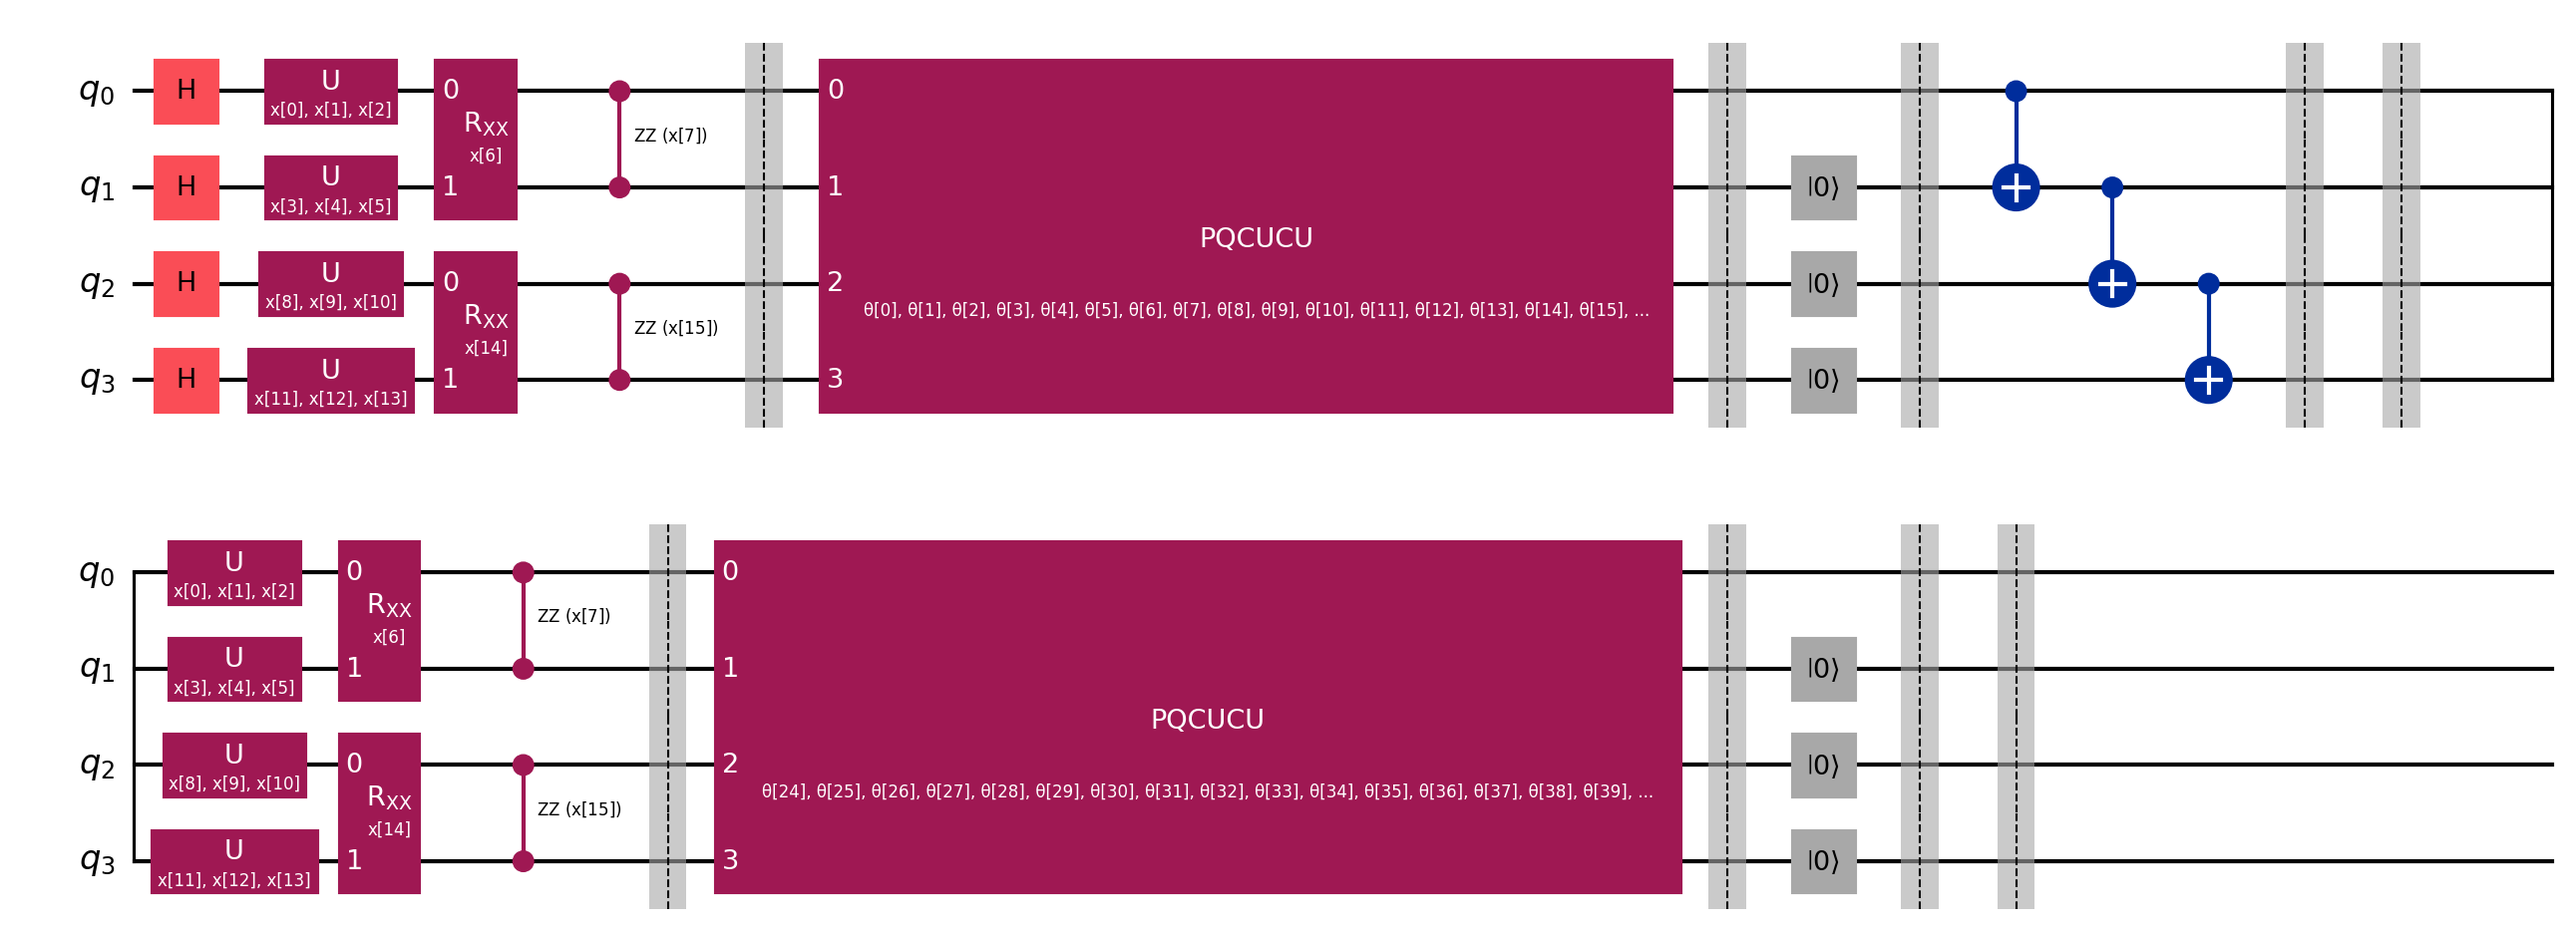
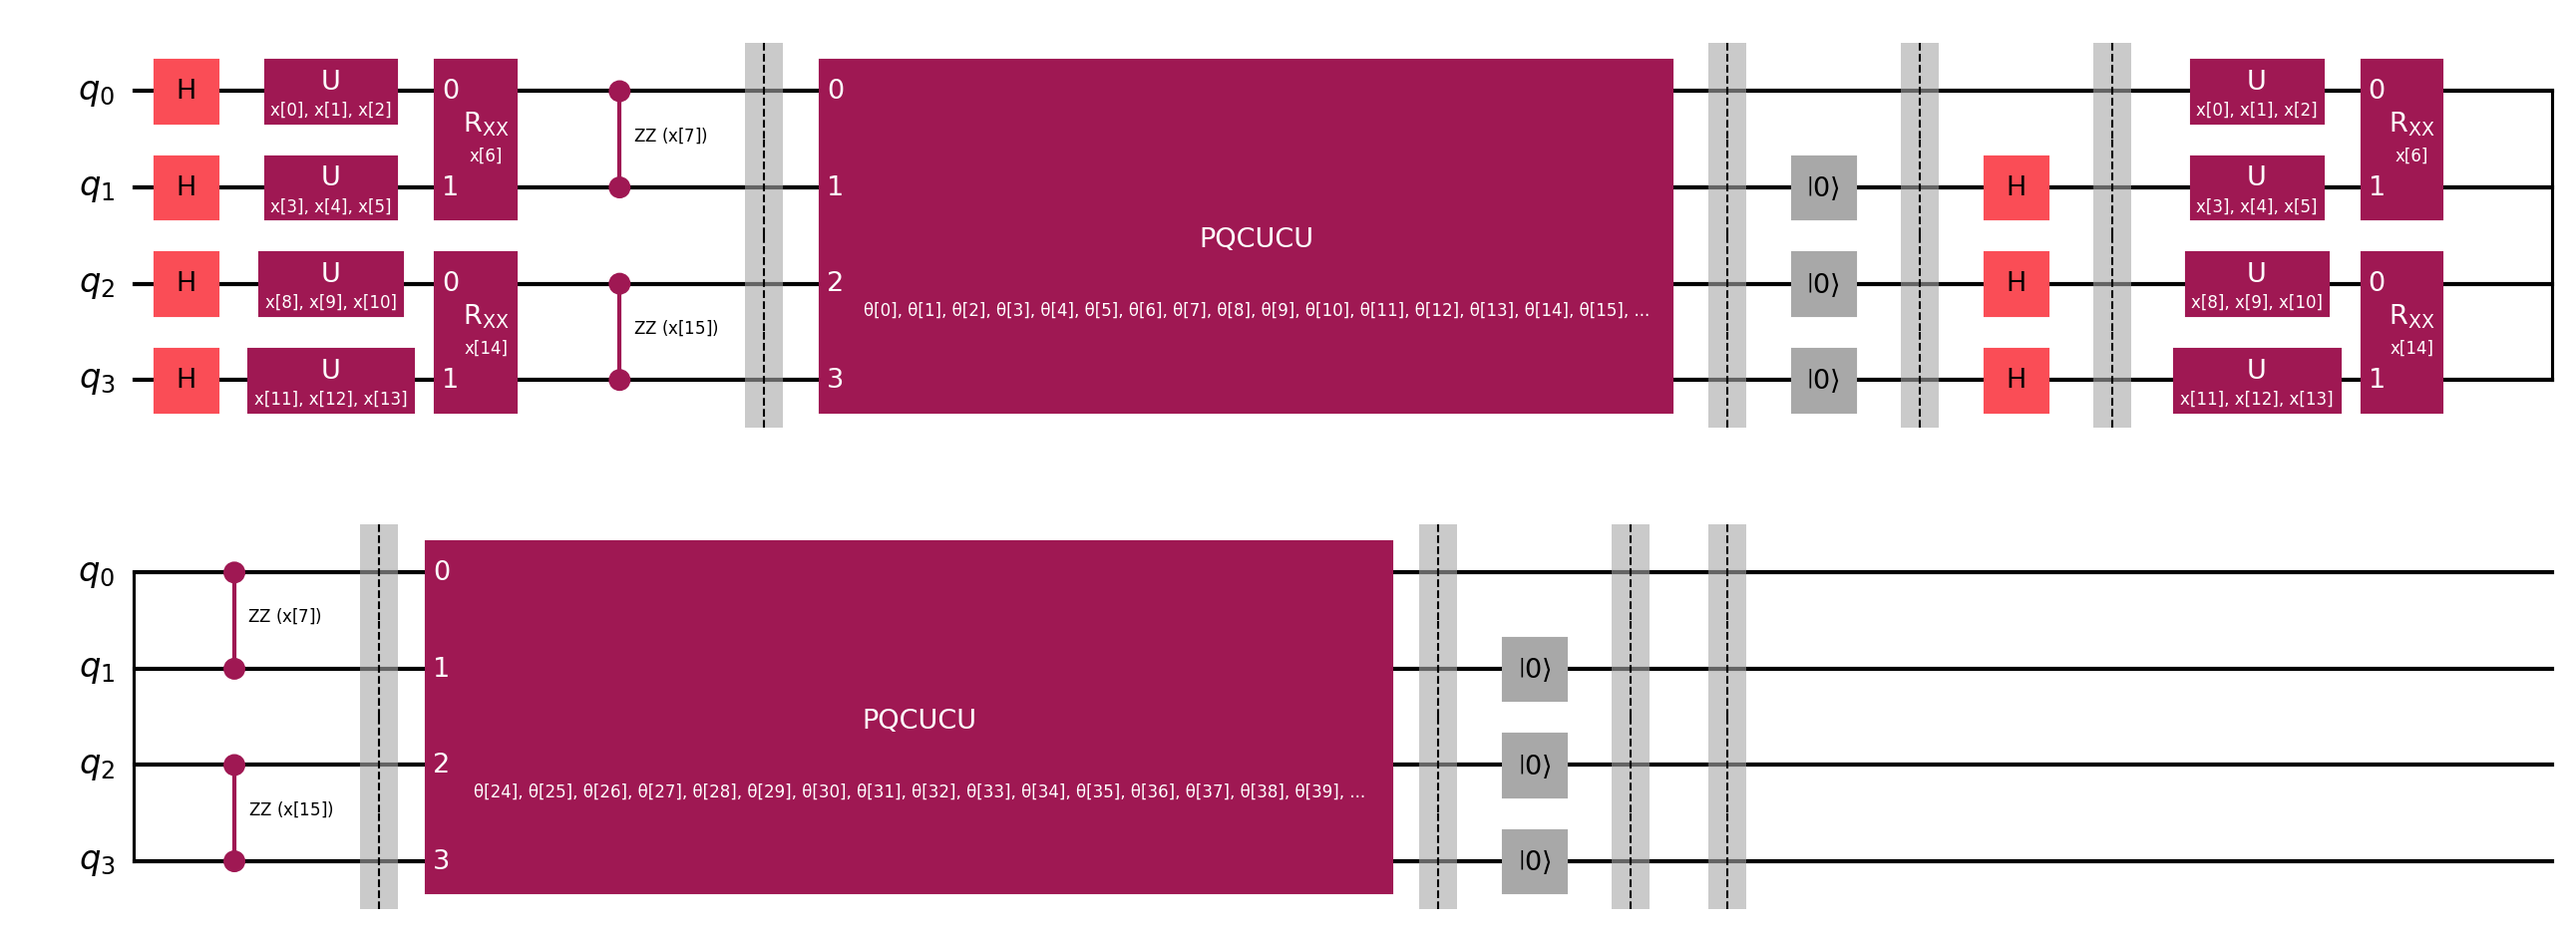
updates

diff --git a/Models/PatchEncoding/qk/LowEntEmbedding.py b/Models/PatchEncoding/qk/LowEntEmbedding.py
@@ -90,6 +90,11 @@ def fourByFourPatchReUploadingResetPooling1Q(
         circ.reset(1)
         circ.barrier()
 
+        if i < layers - 1:
+            circ.h(1)
+            circ.h(2)
+            circ.h(3)
+
         circ.barrier()
 
     return circ
